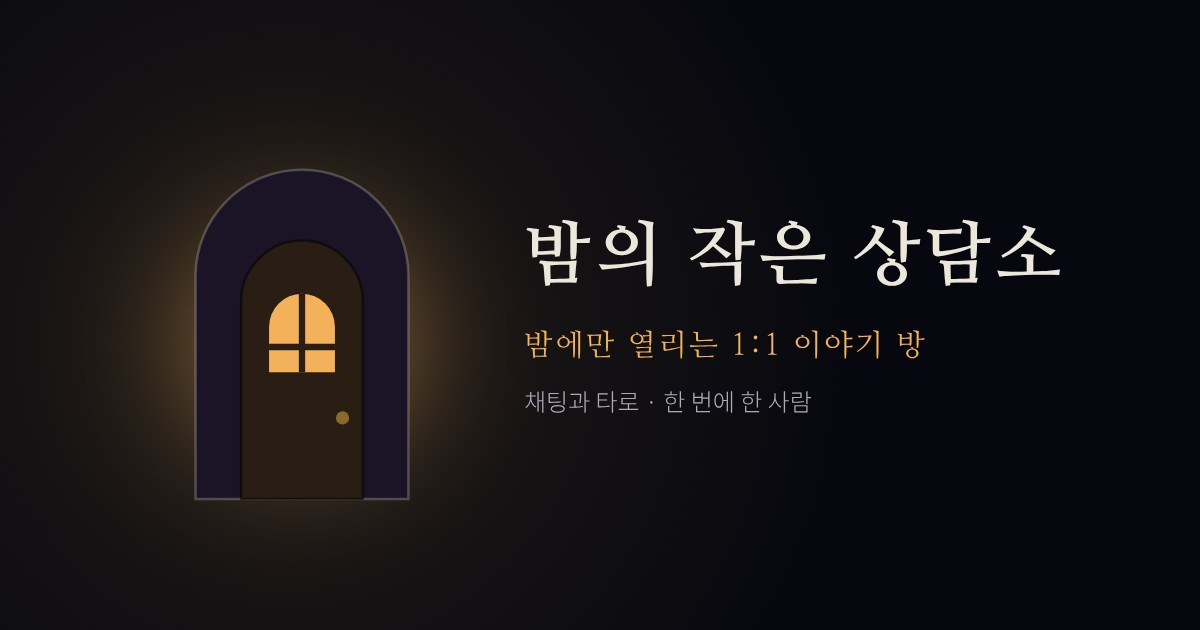
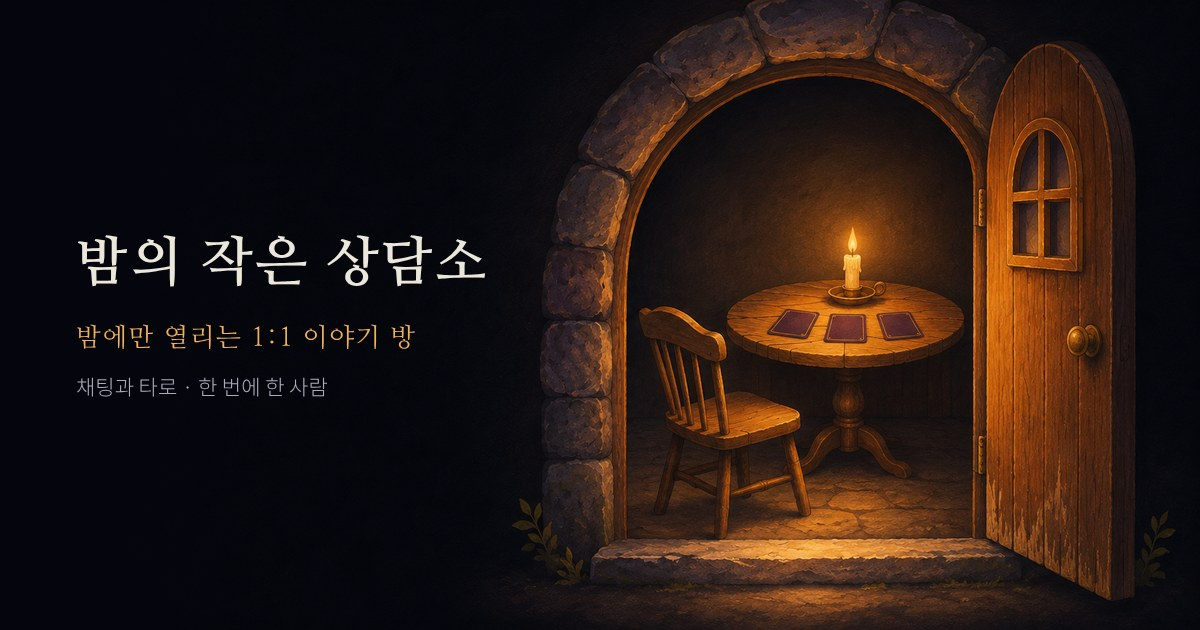
링크 미리보기 그림을 문 안쪽 방으로 바꾸기
홍보에는 문 대신 문 안쪽의 방을 보여 주기로 해서, 링크 미리보기 그림을
열린 문 안쪽의 방(촛불, 뒷면 카드 세 장, 빈 의자)으로 바꿨다.
메신저가 새 그림을 받도록 그림 주소에 ?v=2를 붙였다. 화면 파일은 바꾸지 않았다.

Claude-Session: https://claude.ai/code/session_01T7Ye9YkY7NgjhjaAsPXd3D

diff --git a/index.html b/index.html
@@ -14,7 +14,7 @@
 <meta property="og:title" content="밤의 작은 상담소">
 <meta property="og:description" content="밤에만 열리는 1:1 이야기 방. 채팅과 타로로 한 번에 한 사람의 이야기를 듣습니다.">
 <meta property="og:url" content="https://hyunjae0110.github.io/night-counsel/">
-<meta property="og:image" content="https://hyunjae0110.github.io/night-counsel/assets/og.jpg">
+<meta property="og:image" content="https://hyunjae0110.github.io/night-counsel/assets/og.jpg?v=2">
 <meta property="og:image:width" content="1200">
 <meta property="og:image:height" content="630">
 <meta property="og:locale" content="ko_KR">

diff --git a/docs/guidelines.md b/docs/guidelines.md
@@ -285,7 +285,7 @@ CLAUDE.md            Claude Code가 매번 읽는 요약 지침
 - **대상.** 처음에는 청소년과 성인 모두에게 알린다. 한 달쯤 해 보고(미성년 예약의 비율, 위기 안내를 보낸 횟수) 맞지 않으면 성인 위주로 바꾼다.
 - **여는 때.** 일주일에 세 번, 밤 10시와 11시에 한 사람씩(하루 최대 2명)으로 시작한다. 시험 기간에는 하루 1~2명만 받는다. 늘릴지는 한 달 뒤에 정한다.
 - **예약.** 사이트 밖에서 받는다. 카카오톡 채널의 1:1 채팅으로 문의를 받고 초대 링크를 보낸다. 태어난 해, 「만 15세 이상」 확인, 미성년자 사전 동의, 이용 약속 동의는 예약 폼으로 받는다. 예약 장부(별명, 날짜, 상태, 성인·미성년, 메모 동의 여부)는 사이트 밖의 표에 두고 정한 기간 뒤에 지운다.
-- **링크 미리보기.** 사이트 주소를 메신저나 SNS에 붙이면 문 그림과 이름, 한 줄 소개가 카드로 보이게 한다(`index.html`의 og 태그, 그림은 `assets/og.jpg`). 상담사 화면에는 넣지 않는다.
+- **링크 미리보기.** 사이트 주소를 메신저나 SNS에 붙이면 그림과 이름, 한 줄 소개가 카드로 보이게 한다(`index.html`의 og 태그, 그림은 `assets/og.jpg`). 그림은 열린 문 안쪽으로 보이는 방(촛불 하나, 뒷면이 보이는 카드 세 장, 빈 의자)이고 왼쪽에 이름을 얹는다. 그림을 바꾸면 og 태그의 그림 주소 뒤 `?v=` 숫자를 올려 메신저가 새 그림을 받게 한다. 상담사 화면에는 넣지 않는다.
 - **문 그림.** 문 화면의 문은 선으로 그린 도형 대신 그림 두 장(불 꺼진 문 `assets/door-off.jpg`, 불 켜진 문 `assets/door-on.jpg`)을 쓴다. 문이 닫혀 있으면 불 꺼진 그림이 보이고, 열리면 불 켜진 그림이 천천히 떠오른다(움직임을 줄인 설정에서는 바로 바뀐다). 그림은 우리가 그린 문을 밑그림으로 사용자가 AI 이미지 도구에서 만든 것이고, 두 장은 같은 자리에서 같은 크기로 잘라 겹쳐도 어긋나지 않게 한다. 손님 화면과 상담사 화면이 같은 그림을 쓴다. 채널 사진과 홍보에는 문이 아니라 문 안쪽의 아늑한 방을 그린 그림을 쓴다(사람과 글자는 넣지 않고, 카드는 뒷면만 보이게 한다).
 - **예약 채널.** 카카오톡 채널 「present의 밤」(https://pf.kakao.com/_PhGvX). 「상담소」가 들어간 이름은 카카오의 금칙어에 걸려 쓰지 못했다. 안내 화면에는 채널 이름을 함께 적어 손님이 헷갈리지 않게 한다.
 - **안내 화면의 말투.** 합니다체로 쓰고, 여는 때·진행 순서·미리 알아 둘 것과 present 소개는 명사로 끝낸다. 초대 링크 없이 온 사람에게는 문 상태 글도 합니다체로 보인다.
